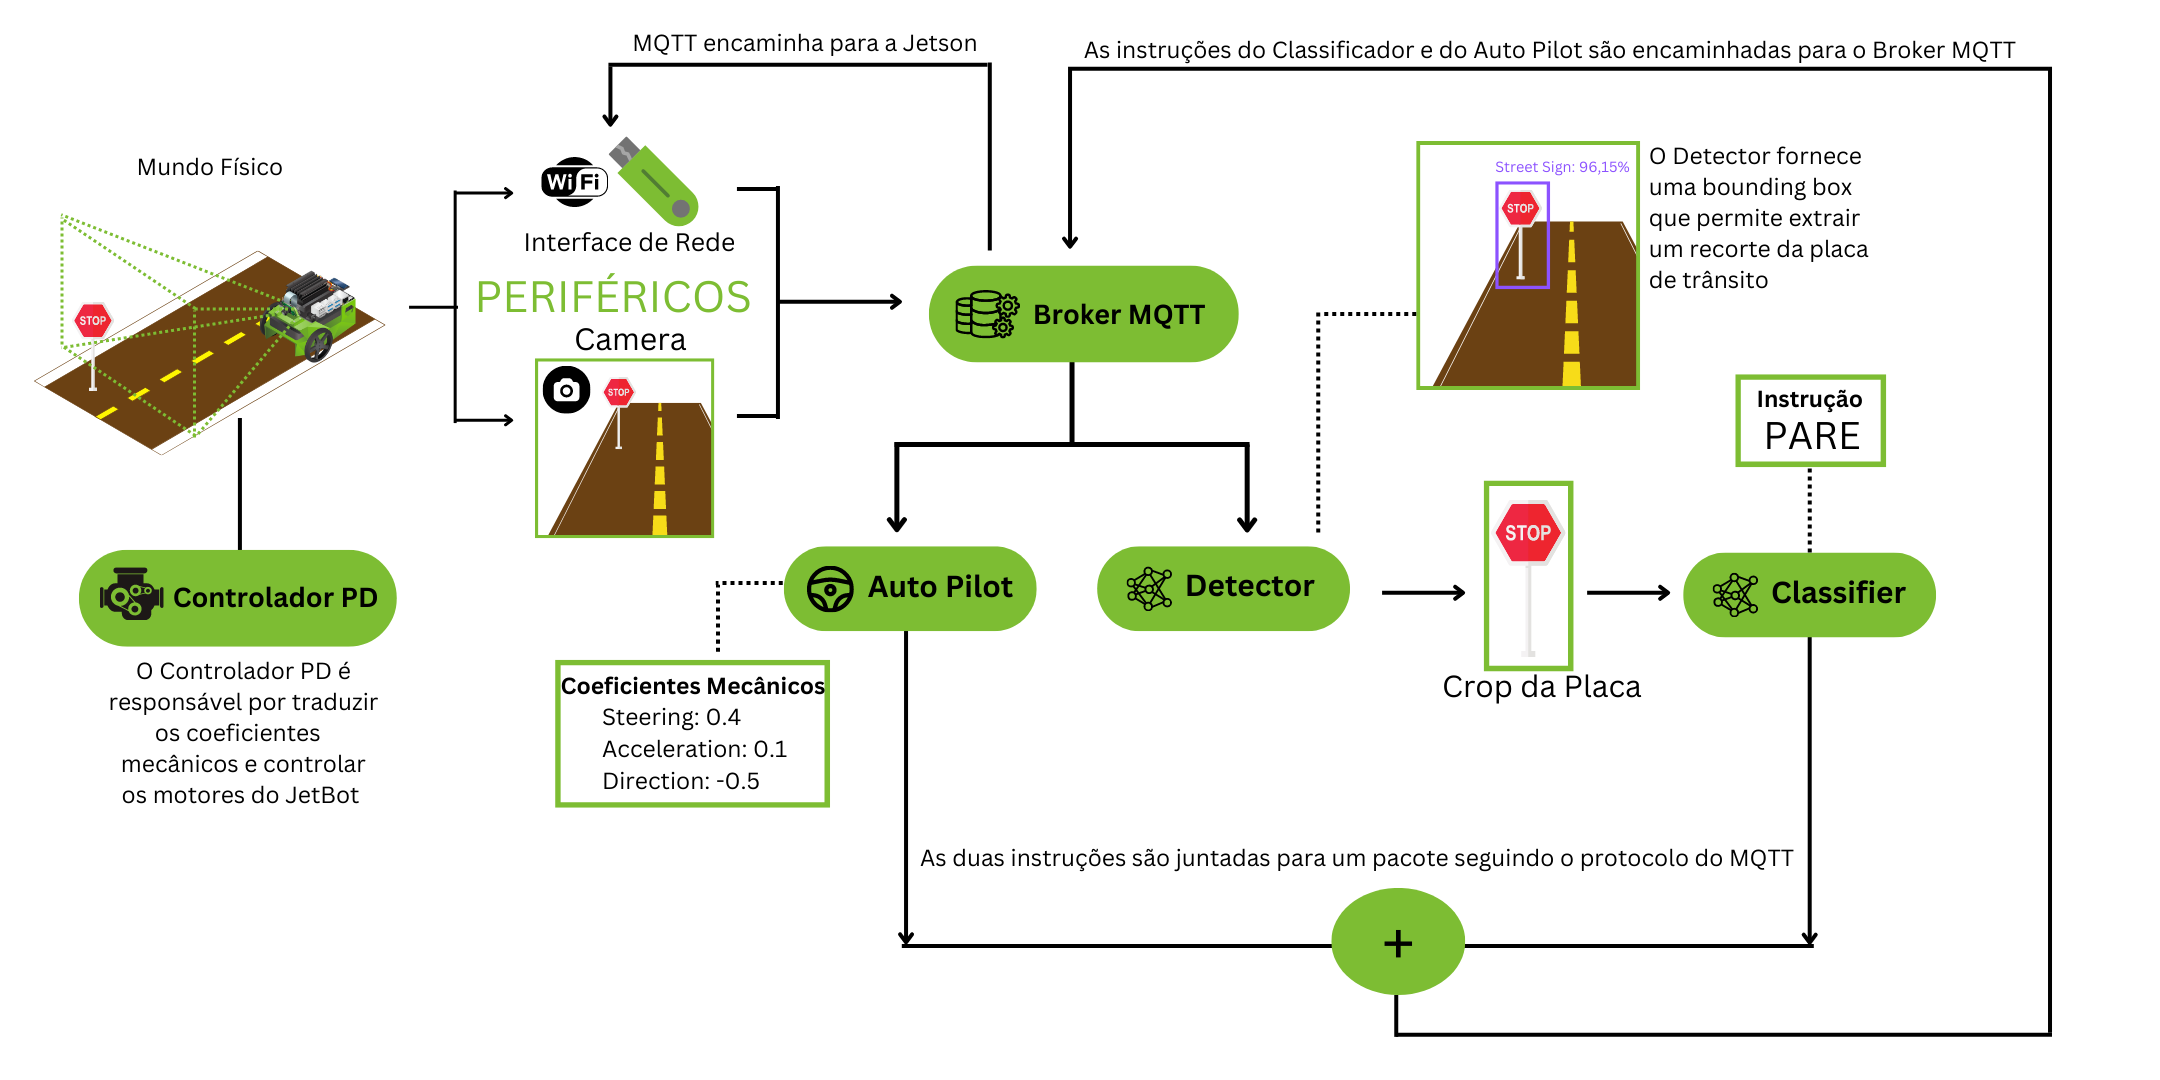
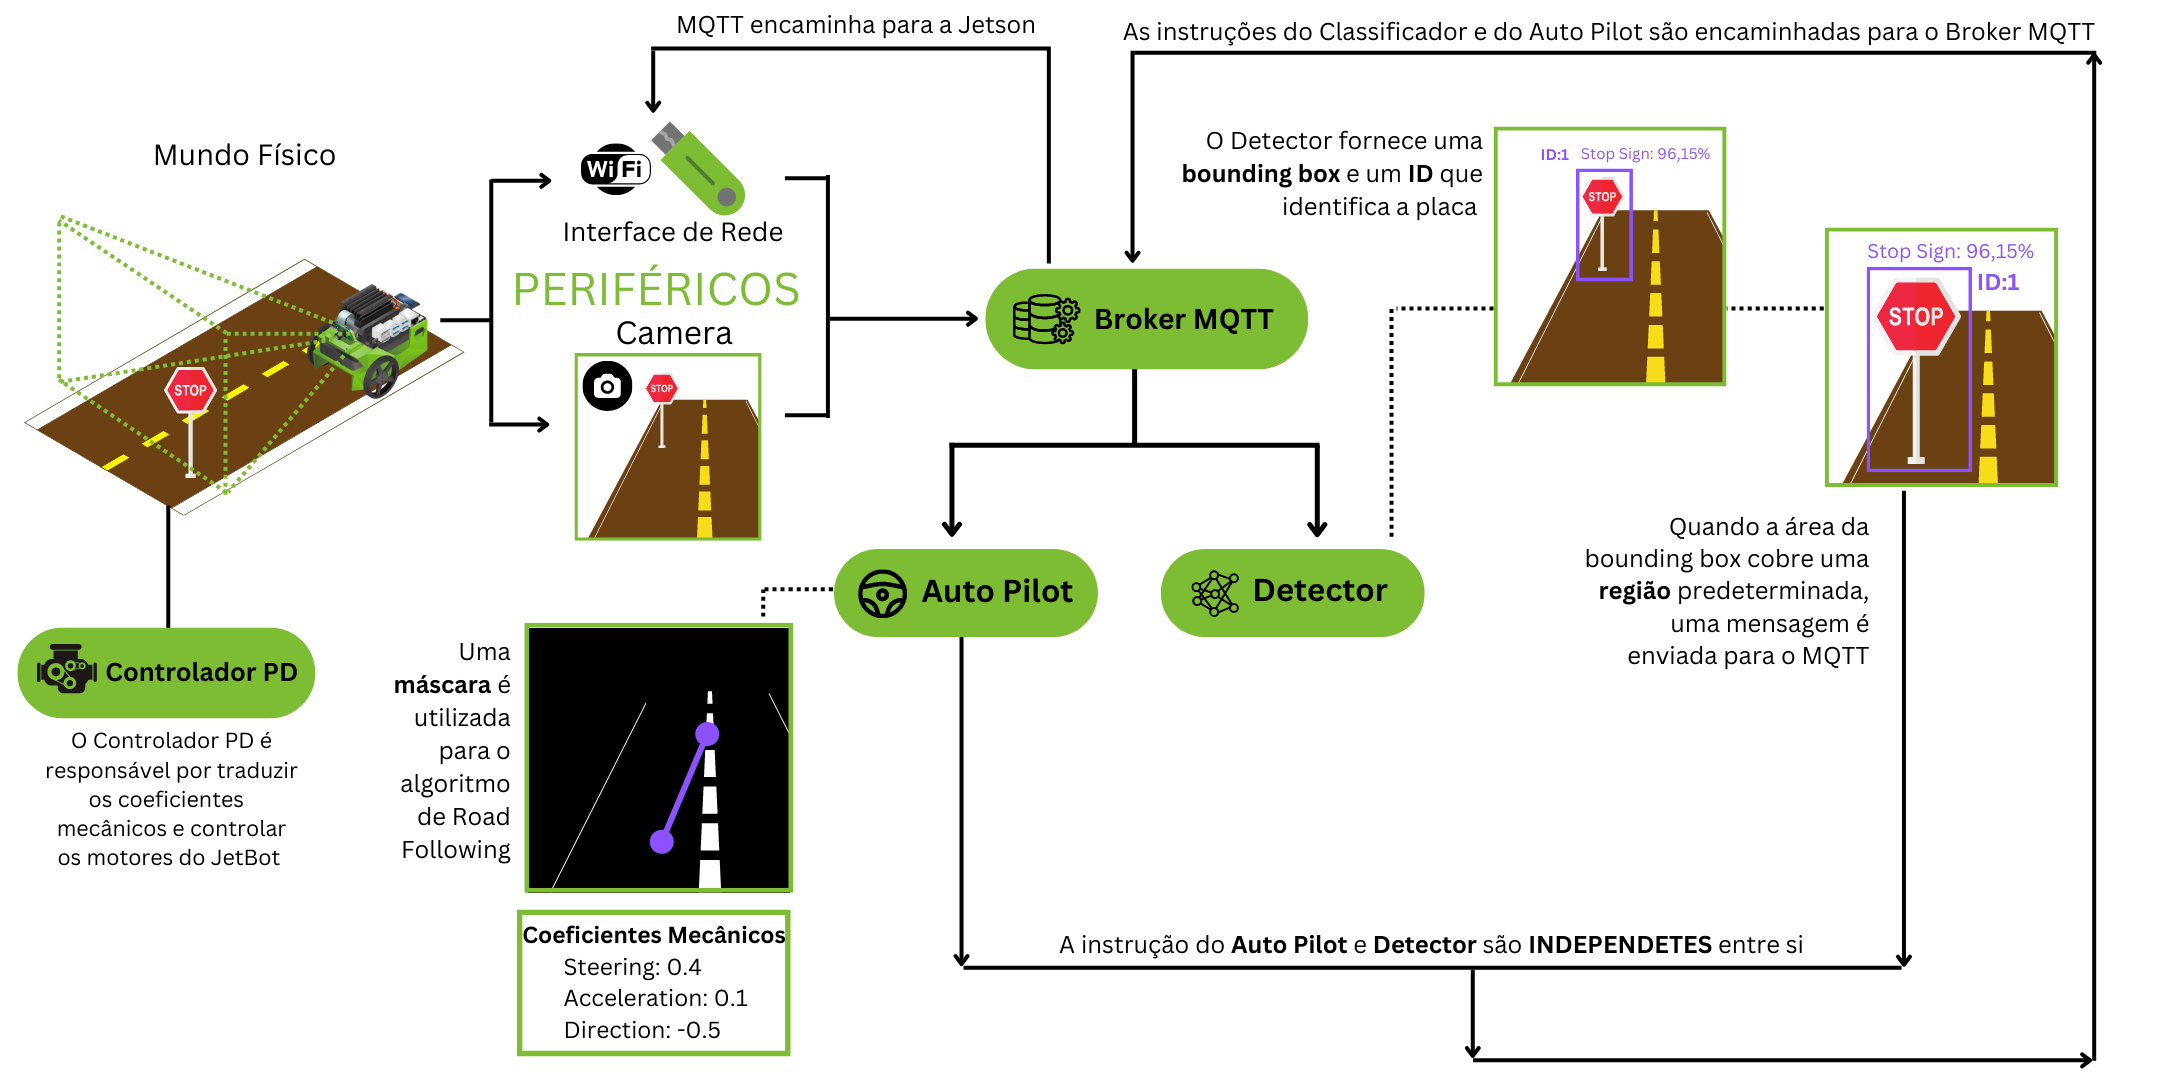
fix: changed architecture image

diff --git a/docs/site/mqtt/index.html b/docs/site/mqtt/index.html
@@ -171,7 +171,7 @@
 <p class="admonition-title">Note</p>
 <p>In this type of asynchronous architecture, the publisher is the service that produces the messages in the broker, indicating that a new event has happened. In the case of the project, JetBot is responsible for sending the image update event processed by the Detection, Classification and Autopilot service. The subscriber consumes messages from the broker and starts the process flow according to its mission.</p>
 </div>
-<p>So a very useful tool for the project was to use the <a href="https://nodered.org/">Node-Red</a> with the <a href="https://mqtt.org/">MQTT protocol</a> for IoT messaging communication between the robot and the classifier. </p>
+<p>So a very useful tool for the project was to use the <a href="https://nodered.org/">Node-Red</a> with the <a href="https://mqtt.org/">MQTT protocol</a> for IoT messaging communication between the robot and the detector. </p>
 <p>The archtecture of the IoT messaging can be seen on the figure below:</p>
 <p><a class="glightbox" data-desc-position="bottom" data-description="" data-height="auto" data-title="" data-width="100%" href="https://github.com/pfeinsper/NVIDIA/blob/gh-pages/images/nodered.png?raw=true"><img alt="MQTT messaging" src="https://github.com/pfeinsper/NVIDIA/blob/gh-pages/images/nodered.png?raw=true"/></a></p>
 <p>The block in blue, named “Sensor 1“ is an ‘inject’ block, which sends a msg.payload and a msg.topic, the message content and its origin, respectively. The message sent, msg.payload, can be in different formats, including JSON, which has the greatest compatibility with Python, which is the language being used to develop the project.</p>

diff --git a/docs/site/index.html b/docs/site/index.html
@@ -227,13 +227,12 @@
 <li>Autopilot </li>
 <li>Neural Networks<ul>
 <li>Detector</li>
-<li>Classifier</li>
 </ul>
 </li>
 <li>Broker MQTT </li>
 <li>Controller</li>
 </ul>
-<p>So the robot starts following the road using computer vision and the controller parameters to stay on track, as the Jetbot sees any traffic sign, for instance a stop sign, the robot immediately detect the stop sign as a roadsign from the detector model and uses it to classify the roadsign as a stop sign by the classifier model. After this, the classifier connects with a broker that uses asyncronous message to communicate with the autopilot and tells the robot to stop, so the motors receive a speed gain of zero and the robot stops on the track, respecting the traffic sign identified.</p>
+<p>So the robot starts following the road using computer vision and the controller parameters to stay on track, as the Jetbot sees any traffic sign, for instance a stop sign, the robot immediately detect the stop sign as a roadsign from the detector model and uses it to detect the roadsign as a stop sign by the traffic sign model. After this, the detector connects with a broker that uses asyncronous message to communicate with the autopilot and tells the robot to stop, so the motors receive a speed gain of zero and the robot stops on the track, respecting the traffic sign identified.</p>
 </article>
 </div>
 </div>
